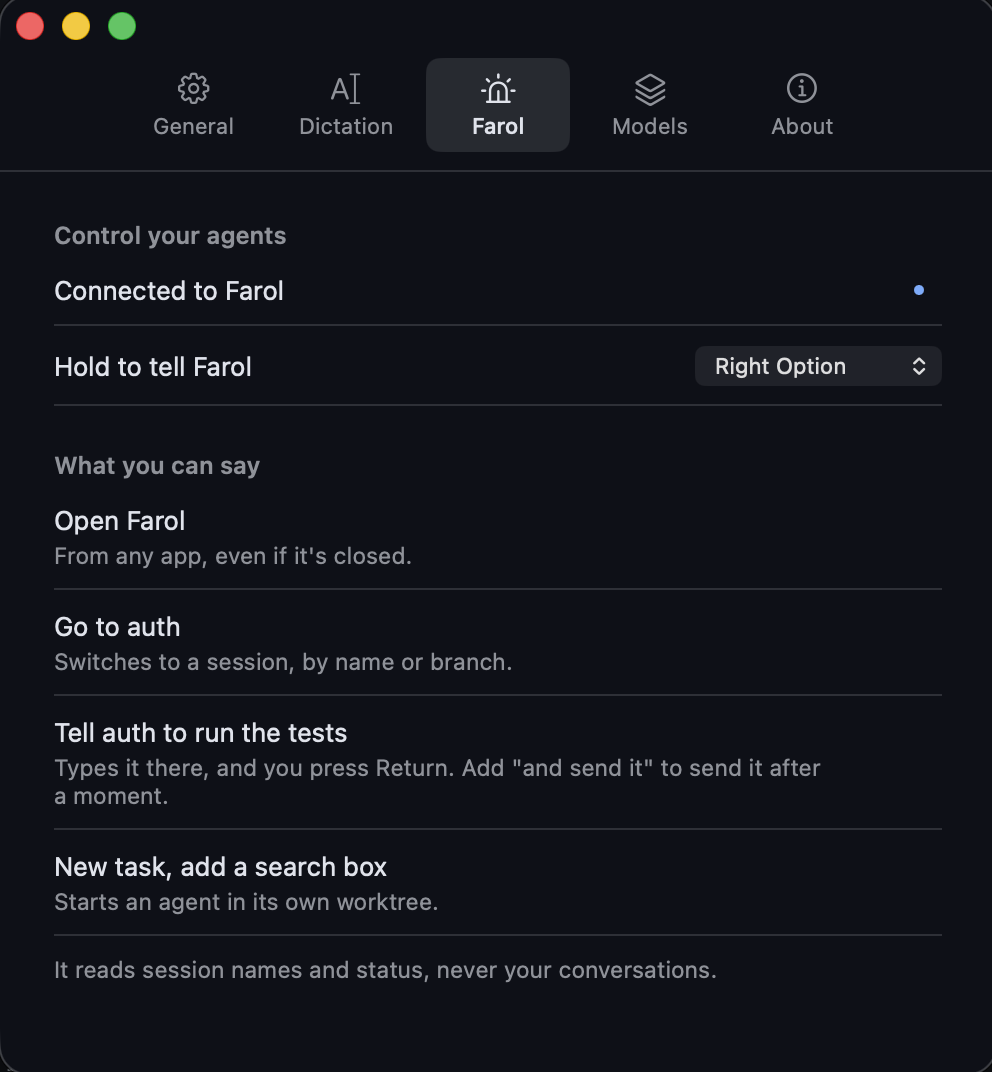
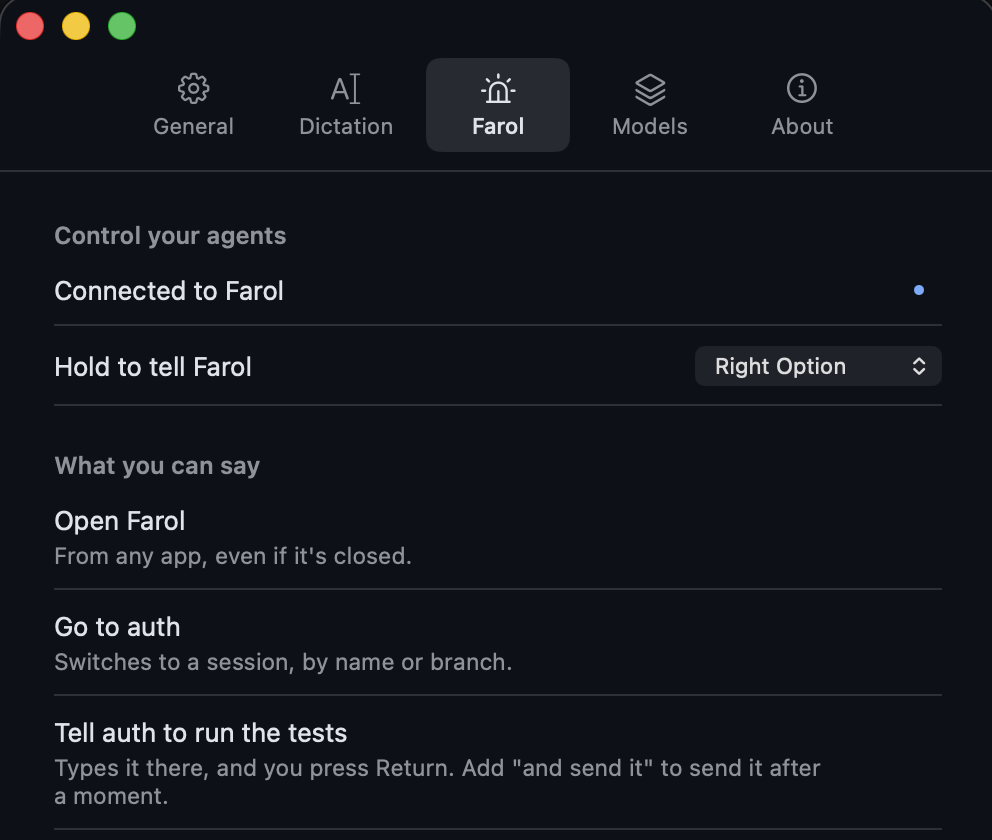
docs(site): show Farol opening in the demo and match screenshot sizes

diff --git a/site/index.html b/site/index.html
@@ -80,6 +80,15 @@
     .demo-app { margin-left: 8px; color: #8e929b; font-size: var(--sn-text-xs); }
     .demo-body { position: relative; padding: 18px 20px; font-size: var(--sn-text-sm); line-height: 1.55; transition: opacity 180ms ease; }
     .demo-hint { color: #5d626e; }
+    /* Farol's window: its sessions beside the one you're in. */
+    .demo-list { display: none; list-style: none; margin: 0; padding: 0; color: #8e929b; }
+    .demo-list li { display: flex; align-items: center; gap: 8px; padding: 2px 8px; border-radius: 5px; }
+    .demo-list li.here { background: #1f232c; color: #dfe3ec; }
+    .demo-list b { width: 6px; height: 6px; border-radius: 50%; background: #5d626e; }
+    .demo-list b.working { background: #71adff; }
+    .demo-body.split { display: grid; grid-template-columns: 112px 1fr; gap: 16px; }
+    .demo-body.split .demo-list { display: block; animation: land 140ms ease-out; }
+    .demo-body.split .demo-main { animation: land 140ms ease-out; }
     .demo-field { margin-top: 6px; }
     .demo-prompt { color: #71adff; margin-right: 8px; }
     /* Takes no room until it lands, so the cursor waits where the words will start. They arrive at once, as a paste does. */
@@ -132,7 +141,7 @@
     .features h2 { font-size: inherit; font-weight: 500; margin: 0 0 6px; }
     .features p { color: var(--sn-fg-muted); font-size: var(--sn-text-sm); margin: 0; }
 
-    .shots { margin: 88px auto 0; display: grid; gap: 24px; align-items: center; }
+    .shots { margin: 88px auto 0; display: grid; gap: 24px; align-items: start; }
     @media (min-width: 860px) { .shots { grid-template-columns: repeat(2, 1fr); } }
     .shots figure { margin: 0; }
     .shots img { display: block; width: 100%; height: auto; border-radius: 12px; }
@@ -168,11 +177,14 @@
       </div>
       <p class="fine">Apple silicon, macOS 15+. Free and open source.</p>
 
-      <div class="demo" role="img" aria-label="Examples in a small app window. Someone holds a key and talks, a waveform shows while they speak, and when they let go their words appear at the cursor, or Farol types their instruction to a coding agent.">
+      <div class="demo" role="img" aria-label="Examples in a small app window. Someone holds a key and talks, a waveform shows while they speak, and when they let go their words appear at the cursor. With a second key they say open Farol and Farol opens, then tell one of its sessions what to do.">
         <div class="demo-bar" aria-hidden="true"><i></i><i></i><i></i><span class="demo-app" id="demo-app">Terminal</span></div>
         <div class="demo-body" id="demo-body" aria-hidden="true">
-          <div class="demo-hint" id="demo-hint">Coding agent, waiting for you</div>
-          <div class="demo-field"><span class="demo-prompt" id="demo-prompt">&gt;</span><span class="demo-text on" id="demo-text">Add a retry to the upload worker and run the tests.</span><span class="demo-caret"></span></div>
+          <ul class="demo-list"><li class="here"><b></b>auth</li><li><b class="working"></b>search</li><li><b></b>docs</li></ul>
+          <div class="demo-main">
+            <div class="demo-hint" id="demo-hint">Coding agent, waiting for you</div>
+            <div class="demo-field"><span class="demo-prompt" id="demo-prompt">&gt;</span><span class="demo-text on" id="demo-text">Add a retry to the upload worker and run the tests.</span><span class="demo-caret"></span></div>
+          </div>
         </div>
         <div class="demo-key" id="demo-key" aria-hidden="true">fn</div>
         <div class="pill" id="demo-pill" aria-hidden="true"><svg viewBox="0 0 18 18" aria-hidden="true"><path fill="#dfe3ec" d="M6 15.5h6l-1.4-8H7.4zM4.5 15.5h9v1.3h-9zM7.6 4.3h2.8v2.4H7.6zM7.1 3.7h3.8L9 1.6z"/><path fill="none" stroke="#71adff" stroke-width="1.6" stroke-linecap="round" stroke-linejoin="round" d="M2.2 3.4 5.4 5.5 2.2 7.6M15.8 3.4 12.6 5.5 15.8 7.6"/></svg><i></i><i></i><i></i><i></i><i></i><i></i><i></i></div>
@@ -195,7 +207,7 @@
         <figcaption>Set up in four steps.</figcaption>
       </figure>
       <figure>
-        <img src="settings.png" width="992" height="1072" loading="lazy" alt="Farol Voice settings, showing it's connected to Farol, the key to hold and what you can say.">
+        <img src="settings.png" width="992" height="840" loading="lazy" alt="Farol Voice settings, showing it's connected to Farol, the key to hold and what you can say.">
         <figcaption>Tell Farol what to do.</figcaption>
       </figure>
     </div>
@@ -243,11 +255,12 @@
   <script>
     // The same order of events as the app, one app window after another, to show it works wherever you type.
     (function () {
+      var farol = { app: "Farol", hint: "auth, ready for you", prompt: ">", text: "", split: true };
       var scenes = [
         { app: "Terminal", hint: "Coding agent, waiting for you", prompt: ">", text: "Add a retry to the upload worker and run the tests." },
-        { app: "Farol", hint: "Sessions: auth, search, docs", prompt: ">", key: "\u2325", command: true, said: "\u201CTell auth to run the tests\u201D", text: "Typed in auth: run the tests." },
         { app: "Team chat", hint: "#launch", prompt: "", text: "Let's ship the release on Friday." },
-        { app: "Mail", hint: "To: Ana", prompt: "", text: "Thanks for the intro. Tuesday afternoon works for me." }
+        { app: "Mail", hint: "To: Ana", prompt: "", text: "", key: "\u2325", command: true, said: "\u201COpen Farol\u201D", opens: farol },
+        { app: "Farol", hint: farol.hint, prompt: ">", text: "run the tests", key: "\u2325", command: true, said: "\u201CTell auth to run the tests\u201D", split: true }
       ];
       var app = document.getElementById("demo-app"), hint = document.getElementById("demo-hint"),
           prompt = document.getElementById("demo-prompt"), text = document.getElementById("demo-text"),
@@ -259,6 +272,7 @@
         hint.textContent = scene.hint;
         key.textContent = scene.key || "fn";
         pill.classList.toggle("command", !!scene.command);
+        body.classList.toggle("split", !!scene.split);
         prompt.textContent = scene.prompt;
         prompt.style.display = scene.prompt ? "" : "none";
         text.textContent = scene.text;
@@ -267,14 +281,17 @@
       }
 
       function show(index, phase) {
-        open(scenes[index]);
+        // Saying it is what opens the window, so the new one appears only once it's done.
+        var opened = phase === "done" && scenes[index].opens;
+        open(opened || scenes[index]);
+        key.textContent = scenes[index].key || "fn";
         key.classList.toggle("down", phase === "talking");
         pill.classList.toggle("on", phase === "talking" || phase === "thinking");
         pill.classList.toggle("talking", phase === "talking");
         pill.classList.toggle("thinking", phase === "thinking");
         text.classList.toggle("on", phase === "done");
         // A command is heard, not typed, so what you said shows until Farol has acted on it.
-        hint.textContent = scenes[index].said && phase !== "idle" && phase !== "done" ? scenes[index].said : scenes[index].hint;
+        hint.textContent = scenes[index].said && phase !== "idle" && phase !== "done" ? scenes[index].said : (opened || scenes[index]).hint;
         hint.classList.toggle("demo-said", !!scenes[index].said && phase !== "idle" && phase !== "done");
       }
 
